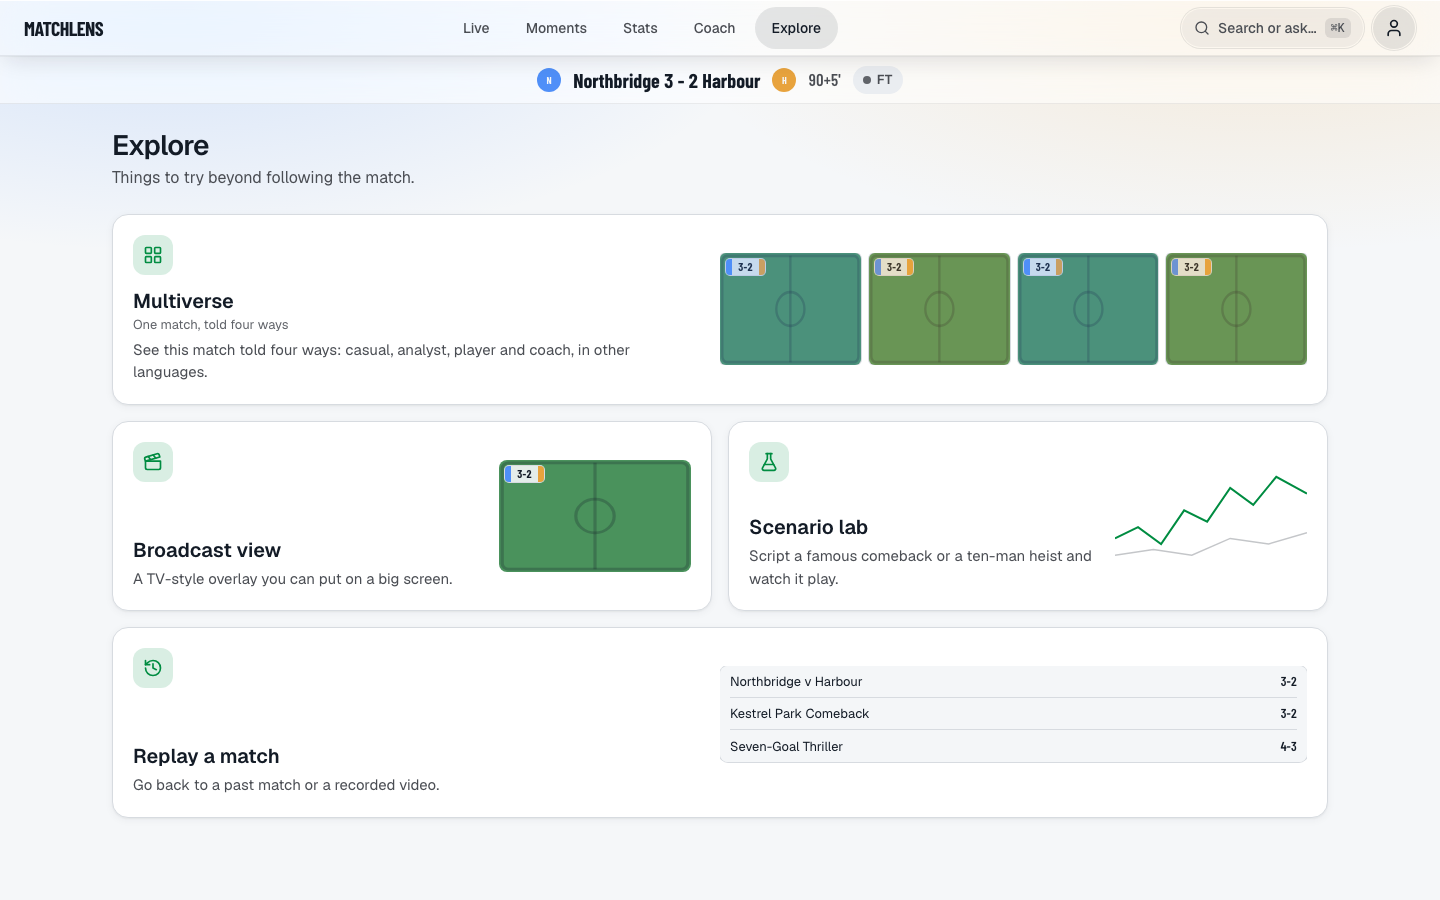
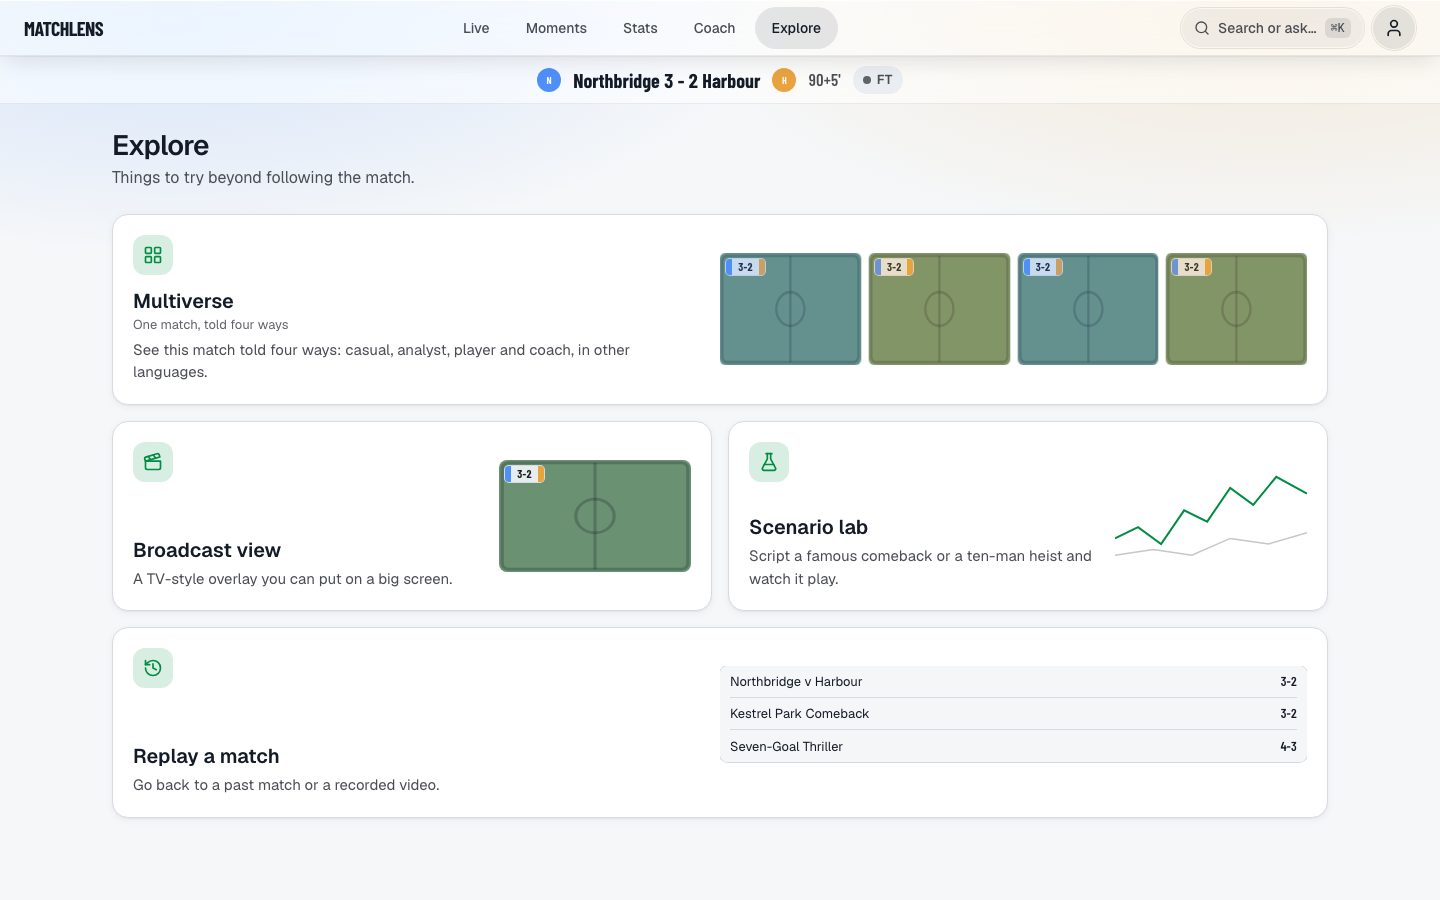
FRONTEND: designer sign-off fixes (muted light pitch, AA team text tones, collapse empty caption, drop redundant Team stats label)

Changed region(s): [[0.5, 0.28, 0.9062, 0.4044], [0.3438, 0.4978, 0.5, 0.6533]]

diff --git a/frontend/src/app/globals.css b/frontend/src/app/globals.css
@@ -53,6 +53,8 @@
   --color-graphic-warn: var(--graphic-warn);
   --color-home: var(--team-home);
   --color-away: var(--team-away);
+  --color-home-text: var(--team-home-text);
+  --color-away-text: var(--team-away-text);
   --color-tier-elite: var(--tier-elite);
   --color-tier-gold: var(--tier-gold);
   --color-tier-silver: var(--tier-silver);
@@ -117,14 +119,16 @@
   --blocked: oklch(0.53 0.2 27);
   --data: oklch(0.5 0.06 255);
 
-  --turf: oklch(0.6 0.11 150);
-  --turf-stripe: oklch(0.63 0.11 150);
-  --chalk: oklch(0.98 0.01 150 / 0.85);
+  --turf: oklch(0.62 0.065 150);
+  --turf-stripe: oklch(0.64 0.065 150);
+  --chalk: oklch(1 0 0 / 0.5);
   --graphic: oklch(0.22 0.03 255 / 0.94);
   --graphic-foreground: oklch(0.98 0.004 250);
   --graphic-warn: oklch(0.83 0.14 78);
 
   --team-home: oklch(0.55 0.18 258);
+  --team-home-text: oklch(0.5 0.18 258);
+  --team-away-text: oklch(0.52 0.13 62);
   --team-away: oklch(0.74 0.14 70);
   /* Match card tiers (FIFA-style colour convention). */
   --tier-elite: oklch(0.58 0.17 300);
@@ -186,6 +190,8 @@
   --graphic-warn: oklch(0.83 0.14 78);
 
   --team-home: oklch(0.68 0.17 250);
+  --team-home-text: oklch(0.68 0.17 250);
+  --team-away-text: oklch(0.8 0.15 75);
   --team-away: oklch(0.8 0.15 75);
   --tier-elite: oklch(0.68 0.15 300);
   --tier-gold: oklch(0.8 0.13 85);

diff --git a/frontend/src/features/live/live-pitch.tsx b/frontend/src/features/live/live-pitch.tsx
@@ -59,7 +59,7 @@ export function Caption({ onAir }: { onAir: Record<string, string | null> }) {
   }
   const side = overlay && meta ? (overlay.team_id === meta.home.team_id ? "home" : overlay.team_id === meta.away.team_id ? "away" : null) : null;
   return (
-    <div className="min-h-10 md:min-h-11" aria-live="polite">
+    <div aria-live="polite">
       <AnimatePresence mode="wait" initial={false}>
         {overlay && text && (
           <m.div
@@ -68,7 +68,7 @@ export function Caption({ onAir }: { onAir: Record<string, string | null> }) {
             animate={{ opacity: 1, y: 0 }}
             exit={{ opacity: 0 }}
             transition={{ duration: 0.25 }}
-            className="flex items-center gap-3 rounded-xl bg-raised px-3 py-1.5"
+            className="flex min-h-10 items-center gap-3 rounded-xl bg-raised px-3 py-1.5 md:min-h-11"
           >
             <span aria-hidden className={cn("h-6 w-1 shrink-0 rounded-full", side ? sideTone[side].bg : "bg-subtle")} />
             <div className="flex min-w-0 items-baseline gap-x-3">

diff --git a/frontend/src/lib/match.ts b/frontend/src/lib/match.ts
@@ -24,8 +24,8 @@ export function playerName(meta: MatchMeta | null, playerId: string | null | und
 
 /** Tailwind classes per side, all backed by tokens. */
 export const sideTone = {
-  home: { bg: "bg-home", text: "text-home", border: "border-home", fill: "fill-home", stroke: "stroke-home" },
-  away: { bg: "bg-away", text: "text-away", border: "border-away", fill: "fill-away", stroke: "stroke-away" },
+  home: { bg: "bg-home", text: "text-home-text", border: "border-home", fill: "fill-home", stroke: "stroke-home" },
+  away: { bg: "bg-away", text: "text-away-text", border: "border-away", fill: "fill-away", stroke: "stroke-away" },
 } as const;
 
 export function overlayText(overlay: Overlay, language: Language): LocalisedText {

diff --git a/frontend/src/features/stats/team-stats.tsx b/frontend/src/features/stats/team-stats.tsx
@@ -112,7 +112,7 @@ export function TeamComparison() {
     <section aria-labelledby="team-stats" className="flex flex-col gap-3">
       <div className="flex items-center justify-between">
         <span className={cn("font-display text-lg font-semibold", sideTone.home.text)}>{meta.home.short_name}</span>
-        <h3 id="team-stats" className="text-sm font-medium">
+        <h3 id="team-stats" className="sr-only">
           {copy.stats.team}
         </h3>
         <span className={cn("font-display text-lg font-semibold", sideTone.away.text)}>{meta.away.short_name}</span>
